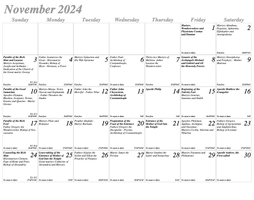
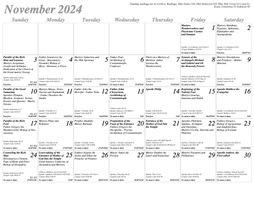
Minor pericope updates

diff --git a/calendar/2023/2023-07.html b/calendar/2023/2023-07.html
@@ -51,7 +51,7 @@ Tones: Octoechos (<span class='lastline'>T</span>), Eothinon (<span class='lastl
         <div class='major major-color'>Wonderworkers Cosmas and Damian</div>
       </div>
       <div class='lower'>
-        <div class='regular reading'> Epistle: 1 Corinthians 12:27-31,13:1-8</div>
+        <div class='regular reading'> Epistle: 1 Corinthians 12:27-31,13:1-8 (Nov 1)</div>
         <div class='regular reading'> Gospel: Matthew 10:1,5-8 (Nov 1)</div>
         <div class='lastline'>
           <div class='line'>

diff --git a/calendar/2024/2024-07.html b/calendar/2024/2024-07.html
@@ -46,7 +46,7 @@ Tones: Octoechos (<span class='lastline'>T</span>), Eothinon (<span class='lastl
         <div class='major major-color'>Wonderworkers Cosmas and Damian</div>
       </div>
       <div class='lower'>
-        <div class='regular reading'> Epistle: 1 Corinthians 12:27-31,13:1-8</div>
+        <div class='regular reading'> Epistle: 1 Corinthians 12:27-31,13:1-8 (Nov 1)</div>
         <div class='regular reading'> Gospel: Matthew 10:1,5-8 (Nov 1)</div>
         <div class='lastline'>
           <div class='line'>

diff --git a/calendar/2025/2025-07.html b/calendar/2025/2025-07.html
@@ -47,7 +47,7 @@ Tones: Octoechos (<span class='lastline'>T</span>), Eothinon (<span class='lastl
         <div class='major major-color'>Wonderworkers Cosmas and Damian</div>
       </div>
       <div class='lower'>
-        <div class='regular reading'> Epistle: 1 Corinthians 12:27-31,13:1-8</div>
+        <div class='regular reading'> Epistle: 1 Corinthians 12:27-31,13:1-8 (Nov 1)</div>
         <div class='regular reading'> Gospel: Matthew 10:1,5-8 (Nov 1)</div>
         <div class='lastline'>
           <div class='line'>

diff --git a/calendar/2026/2026-07.html b/calendar/2026/2026-07.html
@@ -48,7 +48,7 @@ Tones: Octoechos (<span class='lastline'>T</span>), Eothinon (<span class='lastl
         <div class='major major-color'>Wonderworkers Cosmas and Damian</div>
       </div>
       <div class='lower'>
-        <div class='regular reading'> Epistle: 1 Corinthians 12:27-31,13:1-8</div>
+        <div class='regular reading'> Epistle: 1 Corinthians 12:27-31,13:1-8 (Nov 1)</div>
         <div class='regular reading'> Gospel: Matthew 10:1,5-8 (Nov 1)</div>
         <div class='lastline'>
           <div class='line'>

diff --git a/calendar/2023/2023-03.html b/calendar/2023/2023-03.html
@@ -206,7 +206,7 @@ Tones: Octoechos (<span class='lastline'>T</span>), Eothinon (<span class='lastl
       </div>
       <div class='lower'>
         <div class='regular reading'> Orthros: Luke 21:12-19 (Tu/12AC)</div>
-        <div class='regular reading'> Epistle: Hebrews 12:1-10</div>
+        <div class='regular reading'> Epistle: Hebrews 12:1-10 (Su/1AP)</div>
         <div class='regular reading'> Gospel: Matthew 20:1-16 (We/9AP)</div>
         <div class='lastline'>
           <div class='line'>

diff --git a/calendar/2024/2024-03.html b/calendar/2024/2024-03.html
@@ -208,7 +208,7 @@ Tones: Octoechos (<span class='lastline'>T</span>), Eothinon (<span class='lastl
       </div>
       <div class='lower'>
         <div class='regular reading'> Orthros: Luke 21:12-19 (Tu/12AC)</div>
-        <div class='regular reading'> Epistle: Hebrews 12:1-10</div>
+        <div class='regular reading'> Epistle: Hebrews 12:1-10 (Su/1AP)</div>
         <div class='regular reading'> Gospel: Matthew 20:1-16 (We/9AP)</div>
         <div class='lastline'>
           <div class='line'>

diff --git a/calendar/2026/2026-03.html b/calendar/2026/2026-03.html
@@ -204,7 +204,7 @@ Tones: Octoechos (<span class='lastline'>T</span>), Eothinon (<span class='lastl
       </div>
       <div class='lower'>
         <div class='regular reading'> Orthros: Luke 21:12-19 (Tu/12AC)</div>
-        <div class='regular reading'> Epistle: Hebrews 12:1-10</div>
+        <div class='regular reading'> Epistle: Hebrews 12:1-10 (Su/1AP)</div>
         <div class='regular reading'> Gospel: Matthew 20:1-16 (We/9AP)</div>
         <div class='lastline'>
           <div class='line'>

diff --git a/calendar/2023/2023-12.html b/calendar/2023/2023-12.html
@@ -485,7 +485,7 @@ Tones: Octoechos (<span class='lastline'>T</span>), Eothinon (<span class='lastl
       </div>
       <div class='lower'>
         <div class='regular reading'> Epistle: Hebrews 11:8-16</div>
-        <div class='regular reading'> Gospel: Mark 10:24-32</div>
+        <div class='regular reading'> Gospel: Mark 10:24-32 (Dec 20)</div>
         <div class='tone'></div>
         <div class='lastline'>
           <div class='line'>

diff --git a/calendar/2025/2025-03.html b/calendar/2025/2025-03.html
@@ -218,7 +218,7 @@ Tones: Octoechos (<span class='lastline'>T</span>), Eothinon (<span class='lastl
         <div class='lastline'>
           <div class='line'>
             <div class='fast'>No meat or dairy</div>
-            <div class='lectionary'>1L</div>
+            <div class='lectionary'>1AP/1L</div>
           </div>
         </div>
       </div>
